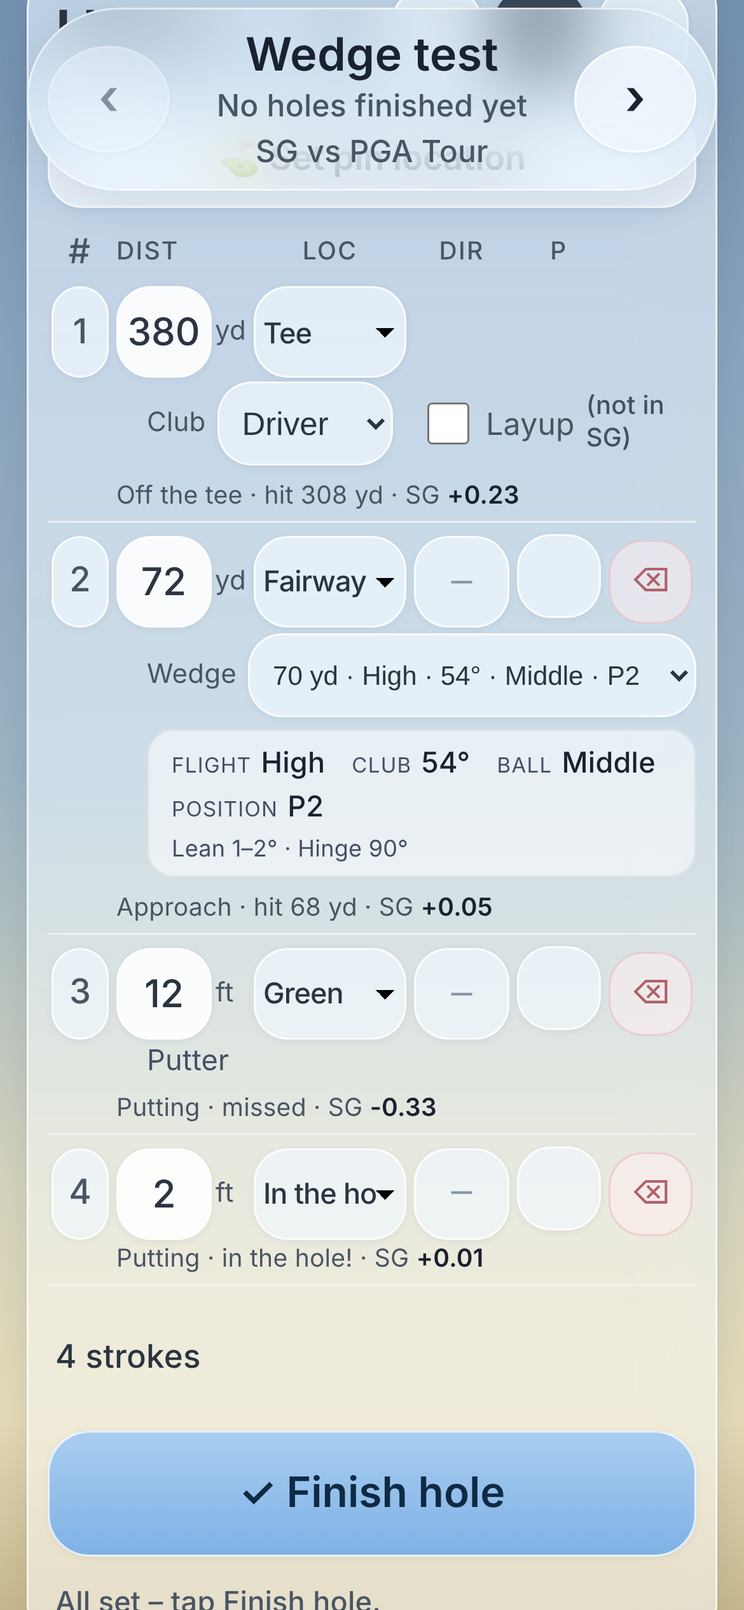
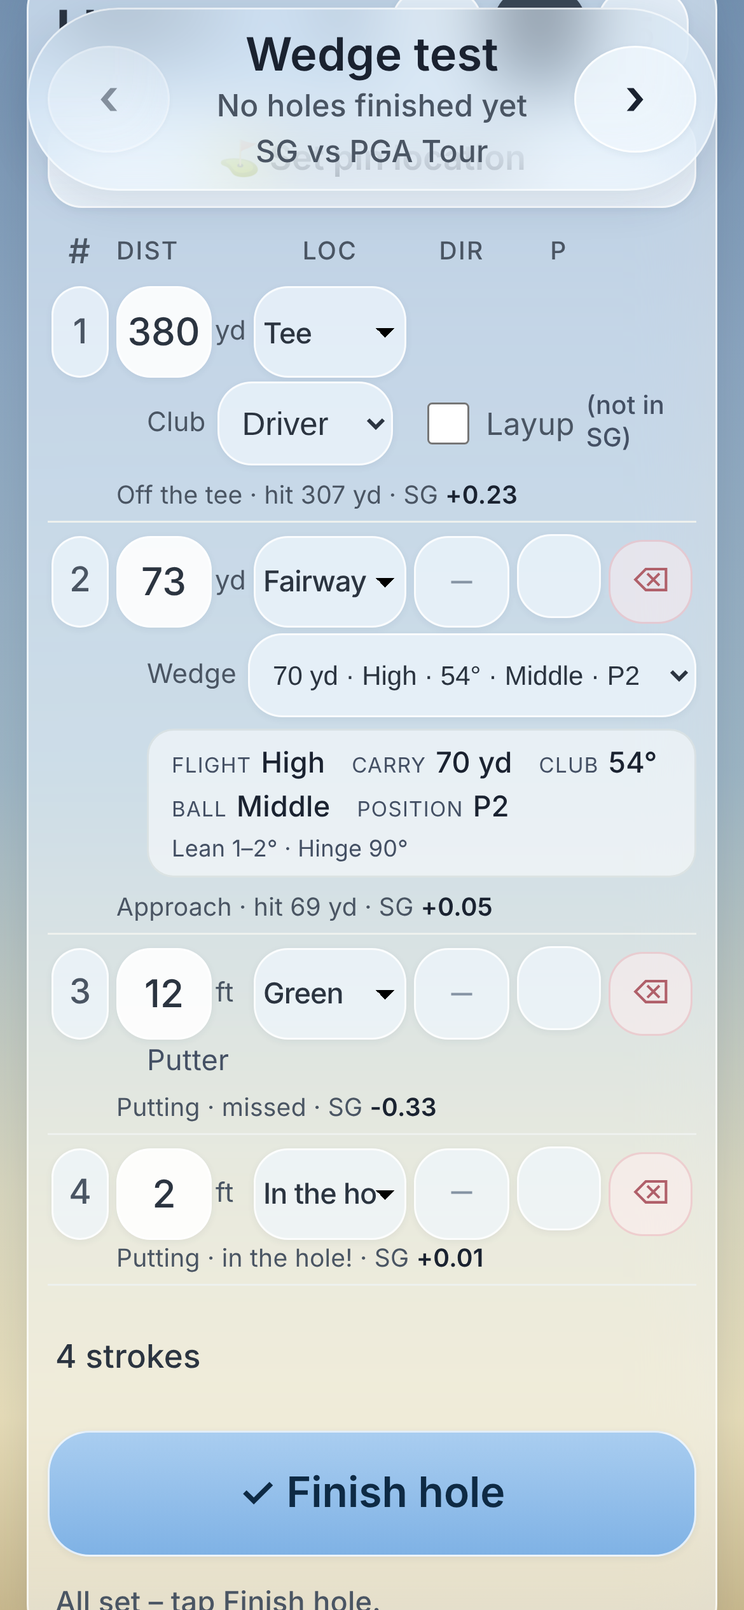
v95: Wedge carry dropdown shows three nearby carries in High and Low flight

diff --git a/tests/wedge-ladder-focused.js b/tests/wedge-ladder-focused.js
@@ -1,23 +1,31 @@
-// v94 Wedge ladder. Wedges page: set yardages open a simple 3-line view (Club / Ball position / Club position); the Edit button
-// brings back the full editor. Scoring page: a shot 40–110 yd out gets a dropdown of the wedge ladder instead of the club picker,
-// preselected to the nearest yardage; picking sets the shot's club and shows the setup under it. Empty ladder → normal picker.
+// v95 Wedge ladder on the scoring page. Wedge yardages are CARRY distances, so any shot 100 yd or less (not on the green)
+// gets a dropdown of three carries around the pin distance (rounded to the nearest 10, then −10 / +10, slid into 40–110)
+// in both flights, grouped High / Low, unset ones greyed – with nothing preselected. Picking one sets the shot's club, stores the carry + flight on the shot and shows the setup under it.
+// Over 100 yd → the normal club picker. No yardage set at all → the normal club picker.
 const assert = require('assert'); const { spawn } = require('child_process');
 const W = require('../wedges.js');
 const OUT = '/workspace/golf-app/screenshots/', PORT = 8832, BASE = 'http://127.0.0.1:' + PORT + '/';
-const CHART = { v: 2, updated: '2026-10-28T20:00:00.000Z', rows: {
-  50: { club: '58', ball: 'front', pos: 'p1' }, 70: { club: '54', ball: 'middle', lean: '1-2', pos: 'p2', hinge: '90' },
-  90: { ball: 'back' }, 75: { club: '56' }, 100: { club: 'PW', ball: 'back', lean: '0', pos: 'p3', hinge: 'full' } },
+const CHART = { v: 3, updated: '2026-10-28T20:00:00.000Z', rows: {
+  40: { club: '60', ball: 'back', lean: '1-2', pos: 'p1', hinge: '45' }, 50: { club: '58', ball: 'front', pos: 'p1' },
+  70: { club: '54', ball: 'middle', lean: '1-2', pos: 'p2', hinge: '90' }, 90: { ball: 'back' }, 75: { club: '56' },
+  100: { club: 'PW', ball: 'back', lean: '0', pos: 'p3', hinge: 'full' } },
   low: { 70: { club: '56', ball: 'back', lean: '3-4', pos: 'p1', hinge: '45' }, 60: { club: '58', ball: 'middle', pos: 'p2' } } };
-const LABELS = ['–', '50 yd · High · 58° · Front · P1', '60 yd · Low · 58° · Middle · P2', '70 yd · High · 54° · Middle · P2', '70 yd · Low · 56° · Back · P1', '100 yd · High · PW · Back · P3'];
+const HIGH = ['40 yd · High · 60° · Back · P1', '50 yd · High · 58° · Front · P1', '60 yd · High · not set', '70 yd · High · 54° · Middle · P2',
+  '80 yd · High · not set', '90 yd · High · not set', '100 yd · High · PW · Back · P3', '110 yd · High · not set'];
+const LOW = ['40 yd · Low · not set', '50 yd · Low · not set', '60 yd · Low · 58° · Middle · P2', '70 yd · Low · 56° · Back · P1',
+  '80 yd · Low · not set', '90 yd · Low · not set', '100 yd · Low · not set', '110 yd · Low · not set'];
 // ---------- data helpers ----------
 {
-  const L = W.ladder(CHART);
-  assert.deepStrictEqual(L.map(e => e.y + e.f), ['50high', '60low', '70high', '70low', '100high'], 'shown yardages with a club, both flights (90 has no club, 75 is hidden)');
-  assert.deepStrictEqual(L.map(W.ladderLabel), LABELS.slice(1));
-  assert.strictEqual(W.nearest(L, 72).y, 70); assert.strictEqual(W.nearest(L, 72).f, 'high', 'High first'); assert.strictEqual(W.nearest(L, 62).f, 'low', 'Low when only Low is set there'); assert.strictEqual(W.nearest(L, 85).y, 100, 'tie → longer'); assert.strictEqual(W.nearest(L, 40).y, 50);
-  assert.strictEqual(W.nearest(L, 95, '54').y, 70, 'by club');
-  assert.ok(W.inRange(40) && W.inRange(110) && !W.inRange(39) && !W.inRange(111) && !W.inRange('') && !W.inRange(null));
-  assert.deepStrictEqual(W.ladder(W.blank()), []);
+  const L = W.fullLadder(CHART);
+  assert.strictEqual(L.length, 16, 'all 8 yardages × 2 flights (hidden 75 not listed)');
+  assert.deepStrictEqual(L.map(W.ladderLabel), HIGH.concat(LOW));
+  assert.deepStrictEqual(L.filter(e => e.set).map(e => e.f + e.y), ['high40', 'high50', 'high70', 'high100', 'low60', 'low70'], '90 has no club → not set');
+  // three carries: round to the nearest 10 (halves up), then ±10, slid into 40–110
+  for (const [d, c] of [[60, [50, 60, 70]], [73, [60, 70, 80]], [77, [70, 80, 90]], [75, [70, 80, 90]], [40, [40, 50, 60]], [45, [40, 50, 60]],
+    [105, [90, 100, 110]], [100, [90, 100, 110]], [15, [40, 50, 60]], [20, [40, 50, 60]], [85, [80, 90, 100]]]) assert.deepStrictEqual(W.carries(d), c, 'carries ' + d);
+  assert.deepStrictEqual(W.nearLadder(CHART, 73).map(W.ladderLabel), ['60 yd · High · not set', '70 yd · High · 54° · Middle · P2', '80 yd · High · not set', '60 yd · Low · 58° · Middle · P2', '70 yd · Low · 56° · Back · P1', '80 yd · Low · not set']);
+  assert.ok(W.inRange(100) && W.inRange(1) && W.inRange(15) && W.inRange(40) && !W.inRange(101) && !W.inRange(0) && !W.inRange('') && !W.inRange(null), 'more than 0, up to 100');
+  assert.strictEqual(W.fullLadder(W.blank()).filter(e => e.set).length, 0);
   console.log('  ladder helpers ok');
 }
 (async () => {
@@ -30,77 +38,95 @@ const LABELS = ['–', '50 yd · High · 58° · Front · P1', '60 yd · Low · 
     const page = await ctx.newPage(); page.setDefaultTimeout(20000); page.on('pageerror', e => errors.push(String(e))); page.on('dialog', d => d.accept());
     const shot = n => page.screenshot({ path: OUT + n + '.png' });
     const holeRows = i => page.evaluate(i => JSON.parse(localStorage.getItem('golfsg.rounds.v1'))[0].holes[i].rows, i);
+    const sel = k => 'select[data-f="wladder"][data-k="' + k + '"]';
     await page.goto(BASE + '?x=' + Date.now());
     await page.evaluate(() => { const R = (d, l, x) => Object.assign({ dist: d, loc: l, dir: '', pen: false }, x || {});
       const holes = Array.from({ length: 18 }, () => ({ par: 4, rows: [R('', 'tee')] }));
-      holes[0] = { par: 4, rows: [R(380, 'tee', { club: 'Driver' }), R(72, 'fairway'), R(12, 'green'), R(2, 'holed')] };
-      holes[1] = { par: 4, rows: [R(410, 'tee'), R(150, 'fairway'), R(95, 'rough', { club: '7i' }), R(8, 'green'), R(1, 'holed')] };
+      holes[0] = { par: 4, rows: [R(380, 'tee', { club: 'Driver' }), R(73, 'fairway'), R(12, 'green'), R(2, 'holed')] };
+      holes[1] = { par: 4, rows: [R(410, 'tee'), R(101, 'fairway'), R(100, 'rough', { club: '7i' }), R(15, 'fairway'), R(8, 'green'), R(1, 'holed')] };
       holes[2] = { par: 4, rows: [R(360, 'tee'), R('', 'fairway')] };
+      holes[3] = { par: 4, rows: [R(350, 'tee'), R(72, 'fairway', { club: '54', wedgeY: 70, wedgeF: 'high', wedgeAuto: true })] }; // a v94 automatic pick
       localStorage.clear(); localStorage.setItem('golfsg.player.v1', 'Scott');
       localStorage.setItem('golfsg.rounds.v1', JSON.stringify([{ v: 3, dv: 2, id: 'rw', date: '2026-10-28T17:00:00.000Z', course: 'Wedge test', baseline: 'pga', player: 'Scott', holes }]));
       localStorage.setItem('golfsg.current.v1', 'rw'); });
     const resume = async (i) => { await page.reload(); await page.click('[data-act="resume"]'); await page.waitForSelector('select[data-f="loc"]');
       for (let n = 0; n < (i || 0); n++) await page.click('[aria-label="Next hole"]');
       await page.waitForFunction(i => document.querySelector('.holecard h2').textContent === 'Hole ' + (i + 1), i || 0); };
-    // 1. empty ladder → the normal picker everywhere
+    // 1. no wedge setups yet → the normal picker
     await resume(0);
     assert.strictEqual(await page.locator('select[data-f="wladder"]').count(), 0); assert.strictEqual(await page.locator('select[data-f="club"]').count(), 2);
     const sg0 = await page.evaluate(() => SG.analyzeHole(window.__golf.rounds()[0].holes[0], 'pga').sg);
-    // 2. with a ladder: the 72 yd shot gets the ladder dropdown, nearest (70) preselected
+    // 2. with a ladder: the 73 yd shot lists 60/70/80 in both flights, grouped, unset greyed, nothing preselected
     await page.evaluate(c => localStorage.setItem('golfsg.wedges.v1', JSON.stringify(c)), CHART);
     await resume(0);
+    const groups = k => page.$$eval(sel(k) + ' optgroup', g => g.map(x => [x.label, [...x.querySelectorAll('option')].map(o => o.value)]));
     assert.strictEqual(await page.locator('select[data-f="club"][data-k="0"]').count(), 1, 'tee shot (380) keeps the club picker');
-    assert.strictEqual(await page.locator('select[data-f="club"][data-k="1"]').count(), 0, 'no club picker in wedge range');
-    assert.deepStrictEqual(await page.$$eval('select[data-f="wladder"][data-k="1"] option', o => o.map(x => x.textContent)), LABELS);
-    assert.strictEqual(await page.inputValue('select[data-f="wladder"][data-k="1"]'), 'wh70', 'nearest preselected');
-    let hr = await holeRows(0); assert.strictEqual(hr[1].club, '54'); assert.strictEqual(hr[1].wedgeY, 70); assert.strictEqual(hr[1].wedgeF, 'high');
-    assert.match(await page.textContent('.clubrow[data-club="1"] .wladet'), /FlightHigh.*Club54°.*BallMiddle.*PositionP2.*Lean 1–2° · Hinge 90°/);
-    // Low flight entry at the same yardage
-    await page.selectOption('select[data-f="wladder"][data-k="1"]', 'wl70');
-    hr = await holeRows(0); assert.deepStrictEqual([hr[1].club, hr[1].wedgeY, hr[1].wedgeF], ['56', 70, 'low']);
-    assert.deepStrictEqual(await page.$$eval('.clubrow[data-club="1"] .wladet span', e => e.map(x => x.textContent)), ['FlightLow', 'Club56°', 'BallBack', 'PositionP1']);
-    assert.strictEqual(await page.textContent('.clubrow[data-club="1"] .wladet small'), 'Lean 3–4° · Hinge 45°');
+    assert.strictEqual(await page.locator('select[data-f="club"][data-k="1"]').count(), 0, 'no club picker at 100 yd and in');
+    assert.strictEqual(await page.inputValue(sel(1)), '', 'nothing preselected'); assert.strictEqual(await page.$eval(sel(1), e => e.options[e.selectedIndex].textContent), 'Choose carry…');
+    assert.deepStrictEqual(await groups(1), [['High flight', ['wh60', 'wh70', 'wh80']], ['Low flight', ['wl60', 'wl70', 'wl80']]]);
+    assert.deepStrictEqual(await page.$$eval(sel(1) + ' optgroup option', o => o.map(x => x.textContent)), ['60 yd · High · not set', '70 yd · High · 54° · Middle · P2', '80 yd · High · not set', '60 yd · Low · 58° · Middle · P2', '70 yd · Low · 56° · Back · P1', '80 yd · Low · not set']);
+    assert.deepStrictEqual(await page.$$eval(sel(1) + ' option:disabled', o => o.map(x => x.value)), ['wh60', 'wh80', 'wl80'], 'unset entries greyed');
+    let hr = await holeRows(0); assert.ok(!hr[1].club && !hr[1].wedgeY, 'no club picked for you'); assert.strictEqual(await page.locator('.wladet').count(), 0);
     assert.strictEqual(await page.locator('.clubrow.putter').count(), 1, 'putts unchanged');
-    // 3. choose another entry → club + details follow; SG unaffected
-    await page.selectOption('select[data-f="wladder"][data-k="1"]', 'wh100');
-    hr = await holeRows(0); assert.strictEqual(hr[1].club, 'PW'); assert.strictEqual(hr[1].wedgeY, 100); assert.ok(!hr[1].wedgeAuto);
-    assert.deepStrictEqual(await page.$$eval('.clubrow[data-club="1"] .wladet span', e => e.map(x => x.textContent)), ['FlightHigh', 'ClubPW', 'BallBack', 'PositionP3']);
-    assert.strictEqual(await page.textContent('.clubrow[data-club="1"] .wladet small'), 'Lean 0° · Hinge Full');
+    // open-list screenshot (the native picker can't be captured, so show the options as a list for the screenshot only)
+    await page.evaluate(s => { const e = document.querySelector(s); e.size = 9; e.style.height = 'auto'; e.style.fontSize = '14px'; e.closest('.clubrow').scrollIntoView({ block: 'start' }); window.scrollBy(0, -220); }, sel(1));
+    await shot('score-wedge-ladder-open');
+    await page.evaluate(s => { const e = document.querySelector(s); e.size = 0; e.style.height = ''; e.style.fontSize = ''; }, sel(1));
+    // 3. pick a carry → club, carry + flight stored, details card; SG unaffected
+    await page.selectOption(sel(1), 'wl70');
+    hr = await holeRows(0); assert.deepStrictEqual([hr[1].club, hr[1].wedgeY, hr[1].wedgeF], ['56', 70, 'low']); assert.ok(!hr[1].wedgeAuto);
+    assert.deepStrictEqual(await page.$$eval('.clubrow[data-club="1"] .wladet span', e => e.map(x => x.textContent)), ['FlightLow', 'Carry70 yd', 'Club56°', 'BallBack', 'PositionP1']);
+    assert.strictEqual(await page.textContent('.clubrow[data-club="1"] .wladet small'), 'Lean 3–4° · Hinge 45°');
+    await page.selectOption(sel(1), 'wh70');
+    hr = await holeRows(0); assert.deepStrictEqual([hr[1].club, hr[1].wedgeY, hr[1].wedgeF], ['54', 70, 'high']);
+    assert.deepStrictEqual(await page.$$eval('.clubrow[data-club="1"] .wladet span', e => e.map(x => x.textContent)), ['FlightHigh', 'Carry70 yd', 'Club54°', 'BallMiddle', 'PositionP2']);
+    assert.strictEqual(await page.textContent('.clubrow[data-club="1"] .wladet small'), 'Lean 1–2° · Hinge 90°');
     const sg1 = await page.evaluate(() => SG.analyzeHole(window.__golf.rounds()[0].holes[0], 'pga').sg); assert.ok(Math.abs(sg1 - sg0) < 1e-9, 'SG unchanged');
-    // club stats still see the club
-    assert.ok(await page.evaluate(() => window.__golf.rounds()[0].holes[0].rows[1].club === 'PW'));
-    // a typed distance change keeps a chosen club; leaving range shows the normal picker with it
+    // typing a new distance recomputes the list but never changes the pick; a pick outside the new list stays shown
+    await page.fill('input[data-row="1"]', '60'); await page.waitForFunction(s => document.querySelector(s + ' option[value="wh50"]'), sel(1));
+    assert.deepStrictEqual(await groups(1), [['High flight', ['wh50', 'wh60', 'wh70']], ['Low flight', ['wl50', 'wl60', 'wl70']]]); assert.strictEqual(await page.inputValue(sel(1)), 'wh70');
+    await page.fill('input[data-row="1"]', '40'); await page.waitForFunction(s => document.querySelector(s + ' option[value="wh40"]'), sel(1));
+    assert.deepStrictEqual(await groups(1), [['High flight', ['wh40', 'wh50', 'wh60', 'wh70']], ['Low flight', ['wl40', 'wl50', 'wl60']]], 'chosen 70 High kept in the list');
+    assert.strictEqual(await page.inputValue(sel(1)), 'wh70'); assert.match(await page.textContent('.clubrow[data-club="1"] .wladet'), /Carry70 yd/);
     await page.fill('input[data-row="1"]', '130'); await page.waitForSelector('select[data-f="club"][data-k="1"]');
-    assert.strictEqual(await page.inputValue('select[data-f="club"][data-k="1"]'), 'PW');
-    await page.fill('input[data-row="1"]', '72'); await page.waitForSelector('select[data-f="wladder"][data-k="1"]');
-    assert.strictEqual(await page.inputValue('select[data-f="wladder"][data-k="1"]'), 'wh100', 'your pick sticks');
-    // 4. persistence after reload
-    await resume(0); assert.strictEqual(await page.inputValue('select[data-f="wladder"][data-k="1"]'), 'wh100'); assert.match(await page.textContent('.wladet'), /ClubPW/);
-    // "–" clears the club
-    await page.selectOption('select[data-f="wladder"][data-k="1"]', ''); hr = await holeRows(0); assert.ok(!hr[1].club && !hr[1].wedgeY);
-    assert.strictEqual(await page.locator('.wladet').count(), 0);
-    await page.selectOption('select[data-f="wladder"][data-k="1"]', 'wh70');
-    // 5. hole 2: 150 → normal picker; 95 with 7i (not in the ladder) still shows its club
-    await resume(1);
-    assert.strictEqual(await page.locator('select[data-f="club"][data-k="1"]').count(), 1);
-    assert.strictEqual(await page.inputValue('select[data-f="wladder"][data-k="2"]'), 'c:7i'); assert.strictEqual(await page.locator('.clubrow[data-club="2"] .wladet').count(), 0);
-    hr = await holeRows(1); assert.strictEqual(hr[2].club, '7i', 'existing club untouched');
-    // 6. typing a distance into range picks the nearest for you, focus kept; leaving range clears an auto pick
-    await page.click('[aria-label="Next hole"]'); await page.waitForFunction(() => document.querySelector('.holecard h2').textContent === 'Hole 3');
-    await page.click('input[data-row="1"]'); await page.keyboard.type('48');
-    await page.waitForSelector('select[data-f="wladder"][data-k="1"]'); assert.strictEqual(await page.inputValue('select[data-f="wladder"][data-k="1"]'), 'wh50');
-    assert.strictEqual(await page.evaluate(() => document.activeElement.getAttribute('data-row')), '1', 'keyboard stays up');
-    hr = await holeRows(2); assert.strictEqual(hr[1].club, '58'); assert.ok(hr[1].wedgeAuto);
-    await page.keyboard.press('Backspace'); await page.keyboard.press('Backspace'); await page.keyboard.type('130');
-    await page.waitForSelector('select[data-f="club"][data-k="1"]'); hr = await holeRows(2); assert.ok(!hr[1].club, 'auto pick cleared outside range');
-    // 7. ladder emptied → the normal picker returns and the chosen club is kept
-    await page.evaluate(() => localStorage.removeItem('golfsg.wedges.v1')); await resume(0);
-    assert.strictEqual(await page.locator('select[data-f="wladder"]').count(), 0); assert.strictEqual(await page.inputValue('select[data-f="club"][data-k="1"]'), '54');
-    // 8. screenshot: ~70 yd shot, ladder + details
-    await page.evaluate(c => localStorage.setItem('golfsg.wedges.v1', JSON.stringify(c)), CHART); await resume(0);
-    assert.strictEqual(await page.inputValue('select[data-f="wladder"][data-k="1"]'), 'wh70');
+    assert.strictEqual(await page.inputValue('select[data-f="club"][data-k="1"]'), '54', '>100 → normal picker, club kept');
+    await page.fill('input[data-row="1"]', '73'); await page.waitForSelector(sel(1)); assert.strictEqual(await page.inputValue(sel(1)), 'wh70', 'your pick sticks');
+    // 4. persistence after reload – carry + flight, not just the club
+    await resume(0); assert.strictEqual(await page.inputValue(sel(1)), 'wh70'); assert.match(await page.textContent('.wladet'), /FlightHigh.*Carry70 yd.*Club54°/);
     await page.evaluate(() => { const r = document.querySelector('.clubrow[data-club="1"]'); window.scrollTo(0, Math.max(0, r.getBoundingClientRect().top + window.scrollY - 330)); });
     await shot('score-wedge-ladder');
+    // "Choose carry…" clears it
+    await page.selectOption(sel(1), ''); hr = await holeRows(0); assert.ok(!hr[1].club && !hr[1].wedgeY && !hr[1].wedgeF); assert.strictEqual(await page.locator('.wladet').count(), 0);
+    assert.strictEqual(await page.inputValue(sel(1)), '', 'stays empty');
+    await page.selectOption(sel(1), 'wh70');
+    // 5. hole 2: 101 → normal picker; 100 with 7i (not in the ladder) keeps it; a 15 yd chip gets the ladder too
+    await resume(1);
+    assert.strictEqual(await page.locator('select[data-f="club"][data-k="1"]').count(), 1, '101 yd → club picker');
+    assert.strictEqual(await page.inputValue(sel(2)), 'c:7i'); assert.strictEqual(await page.locator('.clubrow[data-club="2"] .wladet').count(), 0);
+    hr = await holeRows(1); assert.strictEqual(hr[2].club, '7i', 'existing club untouched');
+    assert.deepStrictEqual(await groups(2), [['High flight', ['wh90', 'wh100', 'wh110']], ['Low flight', ['wl90', 'wl100', 'wl110']]], '100 → 90/100/110');
+    assert.strictEqual(await page.inputValue(sel(3)), '', '15 yd chip: ladder, nothing preselected'); assert.ok(!hr[3].club);
+    assert.deepStrictEqual(await groups(3), [['High flight', ['wh40', 'wh50', 'wh60']], ['Low flight', ['wl40', 'wl50', 'wl60']]], '15 → 40/50/60');
+    // 6. typing a distance into range shows the ladder but picks nothing; keyboard stays up
+    await page.click('[aria-label="Next hole"]'); await page.waitForFunction(() => document.querySelector('.holecard h2').textContent === 'Hole 3');
+    await page.click('input[data-row="1"]'); await page.keyboard.type('48');
+    await page.waitForSelector(sel(1)); assert.strictEqual(await page.inputValue(sel(1)), '');
+    assert.strictEqual(await page.evaluate(() => document.activeElement.getAttribute('data-row')), '1', 'keyboard stays up');
+    hr = await holeRows(2); assert.ok(!hr[1].club, 'no auto pick');
+    for (const [d, c] of [['60', [50, 60, 70]], ['73', [60, 70, 80]], ['77', [70, 80, 90]], ['75', [70, 80, 90]], ['40', [40, 50, 60]], ['15', [40, 50, 60]]]) {
+      await page.fill('input[data-row="1"]', d); await page.waitForFunction(([s, v]) => document.querySelector(s + ' optgroup option') && document.querySelector(s + ' optgroup option').value === v, [sel(1), 'wh' + c[0]]);
+      assert.deepStrictEqual(await groups(1), [['High flight', c.map(y => 'wh' + y)], ['Low flight', c.map(y => 'wl' + y)]], 'typed ' + d); assert.strictEqual(await page.inputValue(sel(1)), '');
+    }
+    await page.fill('input[data-row="1"]', '105'); await page.waitForSelector('select[data-f="club"][data-k="1"]'); // over 100 → club picker
+    await page.fill('input[data-row="1"]', '101'); await page.waitForSelector('select[data-f="club"][data-k="1"]');
+    await page.waitForSelector('select[data-f="club"][data-k="1"]');
+    // 7. a v94 automatic pick just keeps its club
+    await page.click('[aria-label="Next hole"]'); await page.waitForFunction(() => document.querySelector('.holecard h2').textContent === 'Hole 4');
+    assert.strictEqual(await page.inputValue(sel(1)), 'c:54'); assert.strictEqual(await page.locator('.wladet').count(), 0);
+    hr = await holeRows(3); assert.strictEqual(hr[1].club, '54');
+    // 8. no yardage set → the normal picker returns and the chosen club is kept
+    await page.evaluate(() => localStorage.removeItem('golfsg.wedges.v1')); await resume(0);
+    assert.strictEqual(await page.locator('select[data-f="wladder"]').count(), 0); assert.strictEqual(await page.inputValue('select[data-f="club"][data-k="1"]'), '54');
     assert.deepStrictEqual(errors, []); console.log('WEDGE LADDER OK');
   } finally { await br.close(); srv.kill(); }
 })().catch(e => { console.error(e); process.exit(1); });

diff --git a/app.js b/app.js
@@ -1269,7 +1269,7 @@
   function voiceSave() {
     var h = round().holes[view.hole], p = view.voice.p, res = VOICE.apply(h, p);
     if (res.done || res.k < 0) { toast(res.warn[0] || 'Nothing to save'); return; }
-    dictStop(); h.rows = res.rows; h.rows.forEach(function (r0) { if (!r0.club) wAutoPick(r0); }); save(); view.voice = null; view.menu = null; view.vflash = res.touched.slice(); render(); view.vflash = null;
+    dictStop(); h.rows = res.rows; save(); view.voice = null; view.menu = null; view.vflash = res.touched.slice(); render(); view.vflash = null;
     toast('Shot ' + (res.k + 1) + ' saved');
   }
   function dirSheetHTML(h, k) {
@@ -2882,7 +2882,7 @@
     else if (f === 'club') { if (t.value) row.club = t.value; else delete row.club; delete row.wedgeY; delete row.wedgeF; delete row.wedgeAuto; delete row.wedgeOff; save(); }
     else if (f === 'wladder') {
       var we = /^w([hl])(\d+)$/.exec(t.value), wf = we && (we[1] === 'l' ? 'low' : 'high'), wr = we && WEDGES.rowsOf(wedges(), wf)[we[2]];
-      delete row.wedgeAuto; delete row.wedgeOff; if (wr && wr.club) { row.club = wr.club; row.wedgeY = +we[2]; row.wedgeF = wf; } else if (!t.value) { delete row.club; delete row.wedgeY; delete row.wedgeF; row.wedgeOff = true; } // "–" = no club (don't re-pick)
+      delete row.wedgeAuto; delete row.wedgeOff; if (wr && wr.club) { row.club = wr.club; row.wedgeY = +we[2]; row.wedgeF = wf; } else if (!t.value) { delete row.club; delete row.wedgeY; delete row.wedgeF; } // "Choose carry…" = no club
       save(); render();
     }
     else if (f === 'layup') { if (t.checked) row.layup = true; else delete row.layup; save(); refreshInfo(h); }
@@ -2936,35 +2936,31 @@
   }
   document.addEventListener('change', function (ev) { var f = vField(ev.target); if (f === 'loc' || f === 'club' || f === 'shot') render(); });
   document.addEventListener('keydown', function (ev) { if (ev.key === 'Enter' && ev.target && ev.target.id === 'vtext' && !ev.isComposing) { ev.preventDefault(); dictSubmit(); } });
-  // ---------- v94 Wedge ladder on the scoring page ----------
-  // A shot 40–110 yd from the pin (row distance, both ends included) gets a dropdown of the Wedges chart rows that have a club,
-  // instead of the club picker. Picking one sets row.club (so SG / club stats work as before) plus row.wedgeY (which row).
-  // Typing a distance into range picks the nearest row for you (row.wedgeAuto) until you choose one yourself.
-  function wLadderFor(row) { if (row.loc === 'ob' || !WEDGES.inRange(row.dist)) return null; var L = WEDGES.ladder(wedges()); return L.length ? L : null; }
-  function wLadderPick(row, L) { // the ladder entry this row shows
-    if (!row.club) return null;
-    var e = row.wedgeY && L.filter(function (x) { return x.y === +row.wedgeY && x.f === (row.wedgeF || 'high') && x.row.club === row.club; })[0];
-    return e || WEDGES.nearest(L, +row.dist, row.club);
+  // ---------- v95 Wedge ladder on the scoring page ----------
+  // Wedge yardages are CARRY distances, not distances to the pin (a 50 yd pin downhill may want a 40 yd carry that runs out).
+  // So any shot 100 yd or less (not on the green, not OB) gets a dropdown of the ladder instead of the club picker: three carries
+  // around the pin distance (WEDGES.carries) in both flights, grouped High / Low (v95b; v95 listed all 16). Nothing is preselected; yardages with no club yet are shown greyed.
+  // Picking one sets row.club (so SG / club stats work as before) plus row.wedgeY + row.wedgeF (which carry, which flight).
+  // If no yardage has a club yet, the normal club picker shows.
+  function wLadderFor(row) { if (row.loc === 'ob' || !WEDGES.inRange(row.dist)) return null; var w = wedges(); return WEDGES.ladder(w).length ? WEDGES.fullLadder(w) : null; }
+  function wLadderPick(row, L) { // the ladder entry this shot was given (a v94 automatic pick just keeps its club)
+    if (!row.club || !row.wedgeY || row.wedgeAuto) return null;
+    return L.filter(function (x) { return x.set && x.y === +row.wedgeY && x.f === (row.wedgeF || 'high') && x.row.club === row.club; })[0] || null;
   }
   function wDetailHTML(e) {
     var r = e.row, x = [r.lean ? 'Lean ' + WEDGES.name(WEDGES.LEAN, r.lean) : '', r.hinge ? 'Hinge ' + WEDGES.name(WEDGES.HINGE, r.hinge) : ''].filter(Boolean).join(' · ');
     var it = function (l, v) { return '<span><i>' + l + '</i>' + esc(v || '–') + '</span>'; };
-    return '<div class="wladet" id="wladet-' + e.y + '">' + it('Flight', WEDGES.name(WEDGES.FLIGHTS, e.f)) + it('Club', WEDGES.clubLabel(r.club)) + it('Ball', WEDGES.name(WEDGES.BALL, r.ball) || r.ballNote) + it('Position', WEDGES.name(WEDGES.POS, r.pos) || r.posNote) + (x ? '<small>' + esc(x) + '</small>' : '') + '</div>';
+    return '<div class="wladet" id="wladet-' + e.f + e.y + '">' + it('Flight', WEDGES.name(WEDGES.FLIGHTS, e.f)) + it('Carry', e.y + ' yd') + it('Club', WEDGES.clubLabel(r.club)) + it('Ball', WEDGES.name(WEDGES.BALL, r.ball) || r.ballNote) + it('Position', WEDGES.name(WEDGES.POS, r.pos) || r.posNote) + (x ? '<small>' + esc(x) + '</small>' : '') + '</div>';
   }
   function ladderRowHTML(h, k, row, shotNo, dis, hoBox) {
-    if (!row.club && !row.wedgeOff && !dis && wAutoPick(row)) save(); // preselect the nearest yardage
-    var L = wLadderFor(row), cur = wLadderPick(row, L), wv = function (e) { return 'w' + e.f.charAt(0) + e.y; }, val = cur ? wv(cur) : row.club ? 'c:' + row.club : '';
-    var o = '<div class="clubrow wladder" data-club="' + k + '"><label class="clublbl"><span>Wedge</span><select data-f="wladder" data-k="' + k + '" aria-label="Wedge ladder row ' + shotNo + '"' + dis + '><option value=""' + (val ? '' : ' selected') + '>–</option>' +
-      L.map(function (e) { return '<option value="' + wv(e) + '"' + (val === wv(e) ? ' selected' : '') + '>' + esc(WEDGES.ladderLabel(e)) + '</option>'; }).join('') +
+    // v95b: list only 3 carries around the pin distance (both flights); a chosen carry outside them still shows
+    var F = wLadderFor(row), cur = wLadderPick(row, F), C = WEDGES.carries(row.dist), L = F.filter(function (e) { return C.indexOf(e.y) >= 0 || (cur && e === cur); }), wv = function (e) { return 'w' + e.f.charAt(0) + e.y; }, val = cur ? wv(cur) : row.club ? 'c:' + row.club : '';
+    var o = '<div class="clubrow wladder" data-club="' + k + '"><label class="clublbl"><span>Wedge</span><select data-f="wladder" data-k="' + k + '" aria-label="Wedge carry row ' + shotNo + '"' + dis + '><option value=""' + (val ? '' : ' selected') + '>Choose carry…</option>' +
+      WEDGES.FLIGHTS.map(function (f) { /* grouped by flight, sorted by yardage */ return '<optgroup label="' + f[1] + ' flight">' + L.filter(function (e) { return e.f === f[0]; }).map(function (e) {
+        return '<option value="' + wv(e) + '"' + (val === wv(e) ? ' selected' : '') + (e.set ? '' : ' disabled') + '>' + esc(WEDGES.ladderLabel(e)) + '</option>'; }).join('') + '</optgroup>'; }).join('') +
       (row.club && !cur ? '<option value="c:' + esc(row.club) + '" selected>' + esc(row.club) + '</option>' : '') + '</select></label>' +
       (k === 0 && Number(h.par) !== 3 ? '<label class="layup"><input type="checkbox" data-f="layup" data-k="0"' + (row.layup ? ' checked' : '') + dis + '> Layup <small>(not in SG)</small></label>' : '') + hoBox;
     return o + (cur ? wDetailHTML(cur) : '') + '</div>';
-  }
-  function wAutoPick(row) { // returns true when the row's club changed
-    var L = WEDGES.inRange(row.dist) && row.loc !== 'green' && row.loc !== 'holed' && row.loc !== 'ob' ? WEDGES.ladder(wedges()) : [];
-    if (L.length && (!row.club || row.wedgeAuto)) { var e = WEDGES.nearest(L, +row.dist); if (row.club === e.row.club && +row.wedgeY === e.y && row.wedgeF === e.f && row.wedgeAuto) return false; row.club = e.row.club; row.wedgeY = e.y; row.wedgeF = e.f; row.wedgeAuto = true; return true; }
-    if (!L.length && row.wedgeAuto) { delete row.club; delete row.wedgeY; delete row.wedgeF; delete row.wedgeAuto; return true; }
-    return false;
   }
   function clubRowRefresh(h, k) { // swap just that shot's club line (keeps the keyboard up in the distance box)
     var el = document.querySelector('.clubrow[data-club="' + k + '"]'); if (!el) return;
@@ -2976,9 +2972,9 @@
     var t = ev.target; if (!t.hasAttribute || !t.hasAttribute('data-row')) return;
     t.value = t.value.replace(/[^0-9]/g, '').slice(0, 3);
     var h = round().holes[view.hole], k = +t.getAttribute('data-row');
-    var wasL = !!wLadderFor(h.rows[k]);
-    h.rows[k].dist = t.value === '' ? '' : +t.value; delete h.rows[k].wedgeOff; var ch = wAutoPick(h.rows[k]); save();
-    if (ch || wasL !== !!wLadderFor(h.rows[k])) clubRowRefresh(h, k);
+    var wasL = !!wLadderFor(h.rows[k]), wasC = WEDGES.carries(h.rows[k].dist).join();
+    h.rows[k].dist = t.value === '' ? '' : +t.value; save();
+    if ((wasL && wasC !== WEDGES.carries(h.rows[k].dist).join()) || wasL !== !!wLadderFor(h.rows[k])) clubRowRefresh(h, k);
     refreshInfo(h);
   });
   // Update the per-shot info lines in place (no re-render, so taps and the keyboard aren't disturbed)

diff --git a/wedges.js b/wedges.js
@@ -59,19 +59,29 @@
     return { wedges: h, changed: false };
   }
   // v94 Wedge ladder for the scoring page: the shown yardages that have a club set.
-  var MIN = 40, MAX = 110;
-  function inRange(d) { d = Number(d); return d !== 0 && isFinite(d) && d >= MIN && d <= MAX; } // 40–110 yd, both ends included
+  // v95: the yardages are CARRY distances, so the ladder is offered for any shot 100 yd or less (and more than 0).
+  var MIN = 0, MAX = 100;
+  function inRange(d) { if (d === '' || d == null) return false; d = Number(d); return isFinite(d) && d > MIN && d <= MAX; }
   function ladder(w) { // both flights, by yardage, High before Low
     w = norm(w); var L = [];
     YARDS.forEach(function (y) { FLIGHTS.forEach(function (f) { var r = rowsOf(w, f[0])[y]; if (r && r.club) L.push({ y: y, f: f[0], row: r }); }); });
     return L;
   }
+  function fullLadder(w) { // v95: every shown yardage in both flights (High 40…110, then Low 40…110); set = has a club
+    w = norm(w); var L = [];
+    FLIGHTS.forEach(function (f) { YARDS.forEach(function (y) { var r = rowsOf(w, f[0])[y] || {}; L.push({ y: y, f: f[0], row: r, set: !!r.club }); }); });
+    return L;
+  }
+  // v95b: only three carries around the pin distance: rounded to the nearest 10 (halves up: 75 → 80), then −10 / +10,
+  // slid to stay inside 40–110 (15 or 40 → 40/50/60; 105 → 90/100/110).
+  function carries(d) { d = Number(d); if (!isFinite(d)) return []; var c = Math.round(d / 10) * 10; c = Math.max(YARDS[1], Math.min(YARDS[YARDS.length - 2], c)); return [c - 10, c, c + 10]; }
+  function nearLadder(w, d) { var C = carries(d); return fullLadder(w).filter(function (e) { return C.indexOf(e.y) >= 0; }); }
   function nearest(L, d, club) { // same yardage in both flights → the first (High) // closest yardage (a tie goes to the longer one); optionally only rows with that club
     var best = null; L.forEach(function (e) { if (club && e.row.club !== club) return; if (!best || Math.abs(e.y - d) < Math.abs(best.y - d) || (Math.abs(e.y - d) === Math.abs(best.y - d) && e.y > best.y)) best = e; });
     return best;
   }
   function clubLabel(c) { return /^\d{2}$/.test(String(c)) ? c + '°' : String(c || ''); }
-  function ladderLabel(e) { var r = e.row; return [e.y + ' yd', e.f ? name(FLIGHTS, e.f) : '', clubLabel(r.club), name(BALL, r.ball), name(POS, r.pos)].filter(Boolean).join(' · '); }
-  var api = { FLIGHTS: FLIGHTS, rowsOf: rowsOf, count: count, inRange: inRange, ladder: ladder, nearest: nearest, clubLabel: clubLabel, ladderLabel: ladderLabel, MIN: MIN, MAX: MAX, YARDS: YARDS, KEEP: KEEP, hidden: hidden, BALL: BALL, LEAN: LEAN, POS: POS, HINGE: HINGE, STD_CLUBS: STD_CLUBS, FIELDS: FIELDS, name: name, blank: blank, cleanRow: cleanRow, norm: norm, filled: filled, summary: summary, mergeWedges: mergeWedges };
+  function ladderLabel(e) { var r = e.row; if (!r.club) return e.y + ' yd · ' + (e.f ? name(FLIGHTS, e.f) + ' · ' : '') + 'not set'; return [e.y + ' yd', e.f ? name(FLIGHTS, e.f) : '', clubLabel(r.club), name(BALL, r.ball), name(POS, r.pos)].filter(Boolean).join(' · '); }
+  var api = { carries: carries, nearLadder: nearLadder, fullLadder: fullLadder, FLIGHTS: FLIGHTS, rowsOf: rowsOf, count: count, inRange: inRange, ladder: ladder, nearest: nearest, clubLabel: clubLabel, ladderLabel: ladderLabel, MIN: MIN, MAX: MAX, YARDS: YARDS, KEEP: KEEP, hidden: hidden, BALL: BALL, LEAN: LEAN, POS: POS, HINGE: HINGE, STD_CLUBS: STD_CLUBS, FIELDS: FIELDS, name: name, blank: blank, cleanRow: cleanRow, norm: norm, filled: filled, summary: summary, mergeWedges: mergeWedges };
   if (typeof module !== 'undefined' && module.exports) module.exports = api; else root.WEDGES = api;
 })(this);

diff --git a/sw.js b/sw.js
@@ -1,11 +1,12 @@
 // Offline support: cache the whole app on install, serve cache-first.
-const CACHE = 'golf-sg-v94';
+const CACHE = 'golf-sg-v95';
 const ASSETS = ['./', './img/home-bg.webp', './img/oriole.webp', './index.html', './styles.css', './sg.js', './birdie.js', './voice.js', './courses.js', './bag.js', './wedges.js', './live.js', './app.js', './config.js', './onedrive.js', './vendor/msal-browser.min.js', './vendor/jspdf.umd.min.js',
   './manifest.webmanifest', './icons/apple-touch-icon.png', './icons/icon-192.png',
   './icons/icon-512.png', './icons/icon-512-maskable.png'];
 self.addEventListener('install', e => {
   e.waitUntil(caches.open(CACHE).then(c => c.addAll(ASSETS.map(u => new Request(u, { cache: 'reload' })))).then(() => self.skipWaiting()));
 });
+// v95: scoring-page wedge dropdown = whole carry ladder for shots ≤100 yd, no preselect.
 // v94: Wedges simple view + Edit button; wedge ladder dropdown on the scoring page for 40–110 yd shots.
 // v93: Profile (+ menu) with My Bag and a Wedges chart (wedges.js).
 // v92: My Bag (bag.js) – clubs, carries, elevation / temperature estimates.

diff --git a/tests/course-tee-player-focused.js b/tests/course-tee-player-focused.js
@@ -167,6 +167,6 @@ const Y = (b) => Array.from({ length: 18 }, (_, i) => b + i * 7), P = [4, 4, 3, 
   await seed({ 'golfsg.rounds.v1': [Object.assign({}, R1, { player: undefined })] }); await page.reload(); await page.waitForSelector('#home');
   assert.strictEqual(await page.$('#namesheet'), null); assert.strictEqual(await page.$('#playerrow'), null); await openNew(); assert.match(await page.textContent('#nplayer'), /Add golfer’s name/);
   const w = await page.evaluate(() => document.documentElement.scrollWidth); assert.ok(w <= 393, 'no sideways scroll ' + w);
-  const SWV = require('fs').readFileSync(__dirname + '/../sw.js', 'utf8').match(/golf-sg-v\d+/)[0]; assert.strictEqual(SWV, 'golf-sg-v94');
+  const SWV = require('fs').readFileSync(__dirname + '/../sw.js', 'utf8').match(/golf-sg-v\d+/)[0]; assert.strictEqual(SWV, 'golf-sg-v95');
   assert.deepStrictEqual(errors, []); console.log('COURSE / TEE / PLAYER OK'); await b.close(); srv.kill();
 })().catch(e => { console.error(e); process.exit(1); });

diff --git a/tests/profile-wedges-focused.js b/tests/profile-wedges-focused.js
@@ -162,7 +162,7 @@ const OUT = '/workspace/golf-app/screenshots/', PORT = 8831, BASE = 'http://127.
     // empty bag → standard wedge list
     await page.evaluate(() => localStorage.removeItem('golfsg.bag.v1')); await page.reload(); await page.click('#plusbtn'); await page.click('#plusmenu [data-act="profile"]'); await page.click('#profwedges'); await page.click('.whead[data-y="40"]');
     assert.deepStrictEqual(await page.$$eval('#wbody [data-f="club"][data-v="set"]', e => e.map(x => x.getAttribute('data-k'))), W.STD_CLUBS);
-    const sw = fs.readFileSync('/workspace/golf-app/sw.js', 'utf8'); assert.ok(sw.includes("'golf-sg-v94'") && sw.includes("'./wedges.js'"));
+    const sw = fs.readFileSync('/workspace/golf-app/sw.js', 'utf8'); assert.ok(sw.includes("'golf-sg-v95'") && sw.includes("'./wedges.js'"));
     assert.deepStrictEqual(errors, []);
     console.log('PROFILE/WEDGES OK');
   } finally { await br.close(); srv.kill(); }

diff --git a/README.md b/README.md
@@ -55,7 +55,7 @@ excluded and counted. This round / All rounds toggle.
 - `sw.js`, `manifest.webmanifest`, `icons/` – offline + "Add to Home Screen"
 - `tests/sg.test.js` – unit tests: `node --test tests/sg.test.js`
 - `tests/bag-focused.js` – My Bag: physics checks + phone flow (`node tests/bag-focused.js`)
-- `tests/wedge-ladder-focused.js` – Wedges simple view helpers + the wedge-ladder dropdown on the scoring page: range, preselect, details, fallback, persistence (`node tests/wedge-ladder-focused.js`)
+- `tests/wedge-ladder-focused.js` – Wedges simple view helpers + the wedge carry ladder on the scoring page: ≤100 yd boundary, three carries ±10 around the pin, no preselect, details, fallback, persistence (`node tests/wedge-ladder-focused.js`)
 - `tests/profile-wedges-focused.js` – Profile + Wedges chart: menu, navigation, accordion, persistence, backup (`node tests/profile-wedges-focused.js`)
 - `tests/e2e.js` – Playwright (playwright-core) flow test at iPhone 390x844
 
@@ -125,11 +125,11 @@ The **+** menu is New round · **Profile** · History. Profile shows the player 
 
 **Wedges**: one row per yardage, 40–110 yd in 10-yard steps (40, 50 … 110 – 8 rows). Collapsed, a row shows a one-line summary (e.g. `54° · middle · 1–2° · P2 · hinge 90°`) or "Not set". Tap a row to open it (one open at a time): **Club** (short clubs from My Bag – wedges, PW, 9i, anything 40°+ – shown without carries, since distance depends on the setup; the standard PW/48–60° list if the bag has none; "Other" for free text), **Ball position** (Front, Middle, Back), **Shaft lean** (0°, 1–2°, 3–4°), **Club position** (swing positions P1, P2, P3), each with an optional note, and **Hinge** (wrist hinge: 45°, 90°, Full). Tap a selected chip again to unselect. Saves as you tap/type to `golfsg.wedges.v1`; "Clear" empties a yardage. Included in backups (`wedges` key) and restored when the phone's chart is empty or the backup's is newer; older backups without it restore as before. Entries saved at 45, 55 … 105 yd by the first (5-yard) v93 draft are kept in the stored data and backups, just not shown. Charts saved with the first v93 draft options are converted when read (ball Back/Back of center → Back, Center → Middle, Forward/Forward of center → Front; lean Neutral → 0°, Slight → 1–2°, Strong → 3–4°, Leaning back → a note; old clock hand positions → a Club position note).
 
-## Wedge ladder (v94)
+## Wedge ladder (v94, v95)
 - **High / Low flight:** every yardage has two setups. The **High flight · Low flight** toggle at the top of the Wedges page (opens on High) switches the whole list; the header count, row summaries, simple view, Edit and Clear all work on the selected flight. Stored in `golfsg.wedges.v1` as `rows` (High – v93 charts and old backups land here, Low starts empty) and `low` (Low); both go into backups and restore. The Profile card shows e.g. "3 of 8 yardages set · Low 1 of 8".
 - **Wedges page:** opens in a simple view. Tapping a yardage that's set shows just three lines – Club, Ball position, Club position (shaft lean and hinge are still saved, just not shown); the row headers show club · ball · position. Tapping an empty yardage opens the full editor. The **✎ Edit** button under the list turns on edit mode (it reads **✓ Done editing**): tapping any yardage opens the full editor (club, ball position, shaft lean, club position, hinge, notes, Clear/Done) and the headers show everything.
-- **Scoring page:** a shot whose distance is 40–110 yd (both included) gets a **Wedge** dropdown instead of the club picker, listing the Wedges yardages that have a club in either flight (e.g. "70 yd · High · 54° · Middle · P2" and "70 yd · Low · 56° · Back · P1"). The nearest yardage is picked for you (ties go to the longer one; High before Low at the same yardage); typing a distance into range picks it as you type and updates if you keep typing, until you choose one yourself. Choosing one sets the shot's club (so strokes gained and club stats work exactly as before) and shows a small card under it: Flight, Club, Ball, Position, plus lean and hinge if set. "–" means no club.
-- If no yardage has a club, shots use the normal club picker. Shots outside 40–110 are unchanged. A shot that already has a club that isn't in the ladder (e.g. 7i at 95 yd) keeps it and shows it in the dropdown. Voice entry is unchanged; voice-entered wedge-range shots with no club get the nearest yardage preselected.
+- **Scoring page (v95):** the Wedges yardages are **carry** distances, not distances to the pin – a 50 yd pin on a downhill lie may want a 40 yd carry that bounces and runs out; a 60 yd pin on an uphill slope may want a 70 yd carry that lands and pulls back. So any shot **100 yd or less** (more than 0; not on the green, not OB) gets a **Wedge** dropdown instead of the club picker. It lists three carries around the pin distance: the distance rounded to the nearest 10 (halves round up – 73 → 70, 75 and 77 → 80), then 10 less and 10 more, slid to stay inside 40–110 (60 → 50/60/70, 73 → 60/70/80, 77 → 70/80/90, 40 or a 15 yd chip → 40/50/60, 100 → 90/100/110). Each carry appears under **High flight** and **Low flight** (e.g. "70 yd · High · 54° · Middle · P2"), so about 6 entries; carries with no club yet show greyed ("70 yd · Low · not set") and can't be picked. Nothing is preselected ("Choose carry…"). Typing a different distance redoes the three carries but never picks or changes anything; a carry you already chose stays selected (and stays in the list) even if it's outside the new three. Choosing one sets the shot's club (strokes gained and club stats work exactly as before), saves the carry and flight on the shot (`wedgeY`, `wedgeF`) so it shows again after a reload, and shows a small card under it: Flight, Carry, Club, Ball, Position, plus lean and hinge if set. "Choose carry…" clears it.
+- Over 100 yd → the normal club picker (a club chosen from the ladder stays). If no yardage has a club in either flight, shots use the normal club picker. A shot that already has a club that isn't a ladder pick (e.g. 7i at 100 yd, or an automatic pick from v94) keeps it and shows it in the dropdown. Voice entry is unchanged.
 
 ## My Bag (v92)
 Open from the **+** menu → **Profile** → **My Bag**. Add clubs by manufacturer → model → club/loft (Titleist, TaylorMade, Callaway, Ping, Srixon, Cleveland, Mizuno, Cobra, PXG, Wilson, Bridgestone, Honma, Tour Edge, XXIO, Vokey, Scotty Cameron, Odyssey, Ben Hogan, Sub 70, Lynx; "Other brand" / "Model not listed" for anything else, plus a custom club name and loft). Lofts are typical stock lofts and editable. One club per name (adding a second 7i replaces the first). Enter each club's **carry** in yards; sort by club or by carry; tap a club to edit or remove it.
